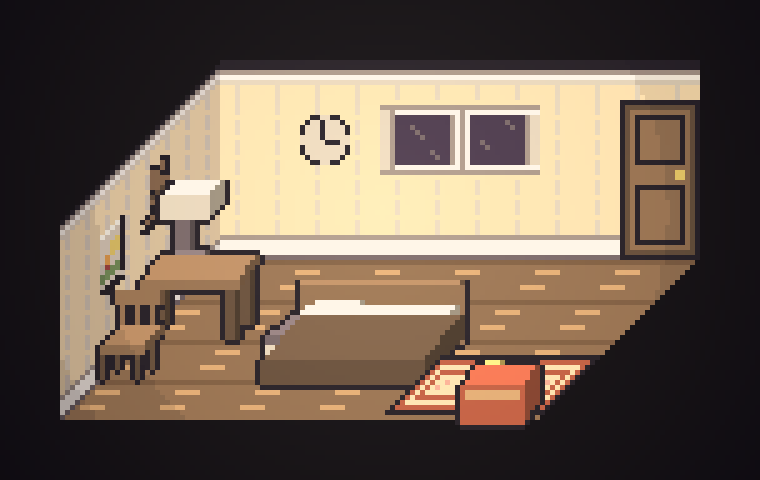
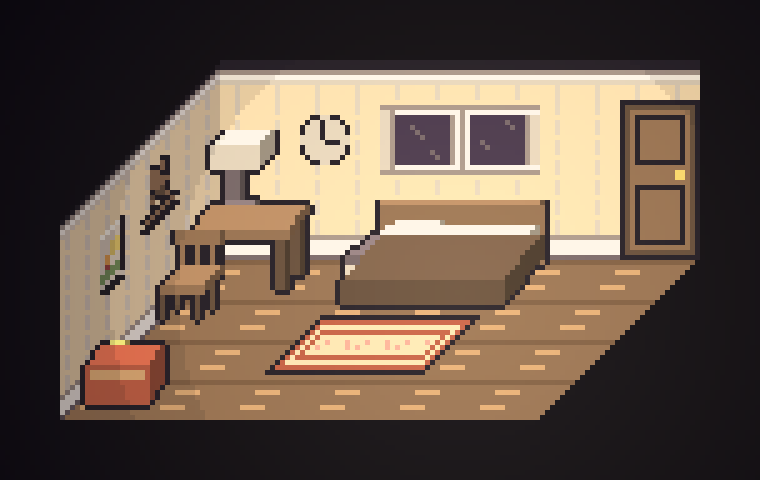
Child room oblique: furniture against walls (box furniture pushed to tile back), rug clear, bed under window
Claude-Session: https://claude.ai/code/session_01FPZSaKiVNU2zED737yZX4w

Changed region(s): [[0.0605, 0.1562, 0.7868, 0.9062], [0.8776, 0.3438, 0.9079, 0.375]]

diff --git a/tools/render_room.py b/tools/render_room.py
@@ -11,7 +11,7 @@ import render_maps as R
 SK, SS, T, WALLH, PAD = boxes.SK, boxes.SS, 16, 40, 12
 
 def render_room(path, scale=1):
-    m = R.load_map(path); lib = R.load_library(); lights = R.load_lights(); boxset = set(boxes.load_all(render.ROOT))
+    m = R.load_map(path); lib = R.load_library(); lights = R.load_lights(); boxset = set(boxes.load_all(render.ROOT)); bdepth = {it['name']: max(p[2] + p[5] for p in it['parts'] if p[0] == 'box') for it in boxes.load_boxes(os.path.join(render.ROOT, 'boxes.txt'))}
     rows, leg = m['rows'], m['legend']
     tile = lambda ch: leg[ch][0]
     floor_rows = [i for i, r in enumerate(rows) if any(tile(c).startswith('floor') for c in r)]
@@ -84,6 +84,7 @@ def render_room(path, scale=1):
                 nm, _, lift = obj.partition('^'); d0 = D - T * (fr + 1)
                 things.append((-d0, 0 if nm.startswith('rug') else 1, c, nm, int(lift or 0), d0))
     for _, _, c, nm, lift, d0 in sorted(things):
+        if nm in bdepth: d0 += max(0, T - bdepth[nm])        # 상자 가구는 칸의 뒤쪽 끝에 붙인다(벽에 맞닿게)
         gx, gy = X0 + (c - c0) * T + SK * d0, Y0 - SS * d0
         if nm == 'ceiling_light':
             emitters.append((gx + 8, gy - 18) + lights[nm]); continue
